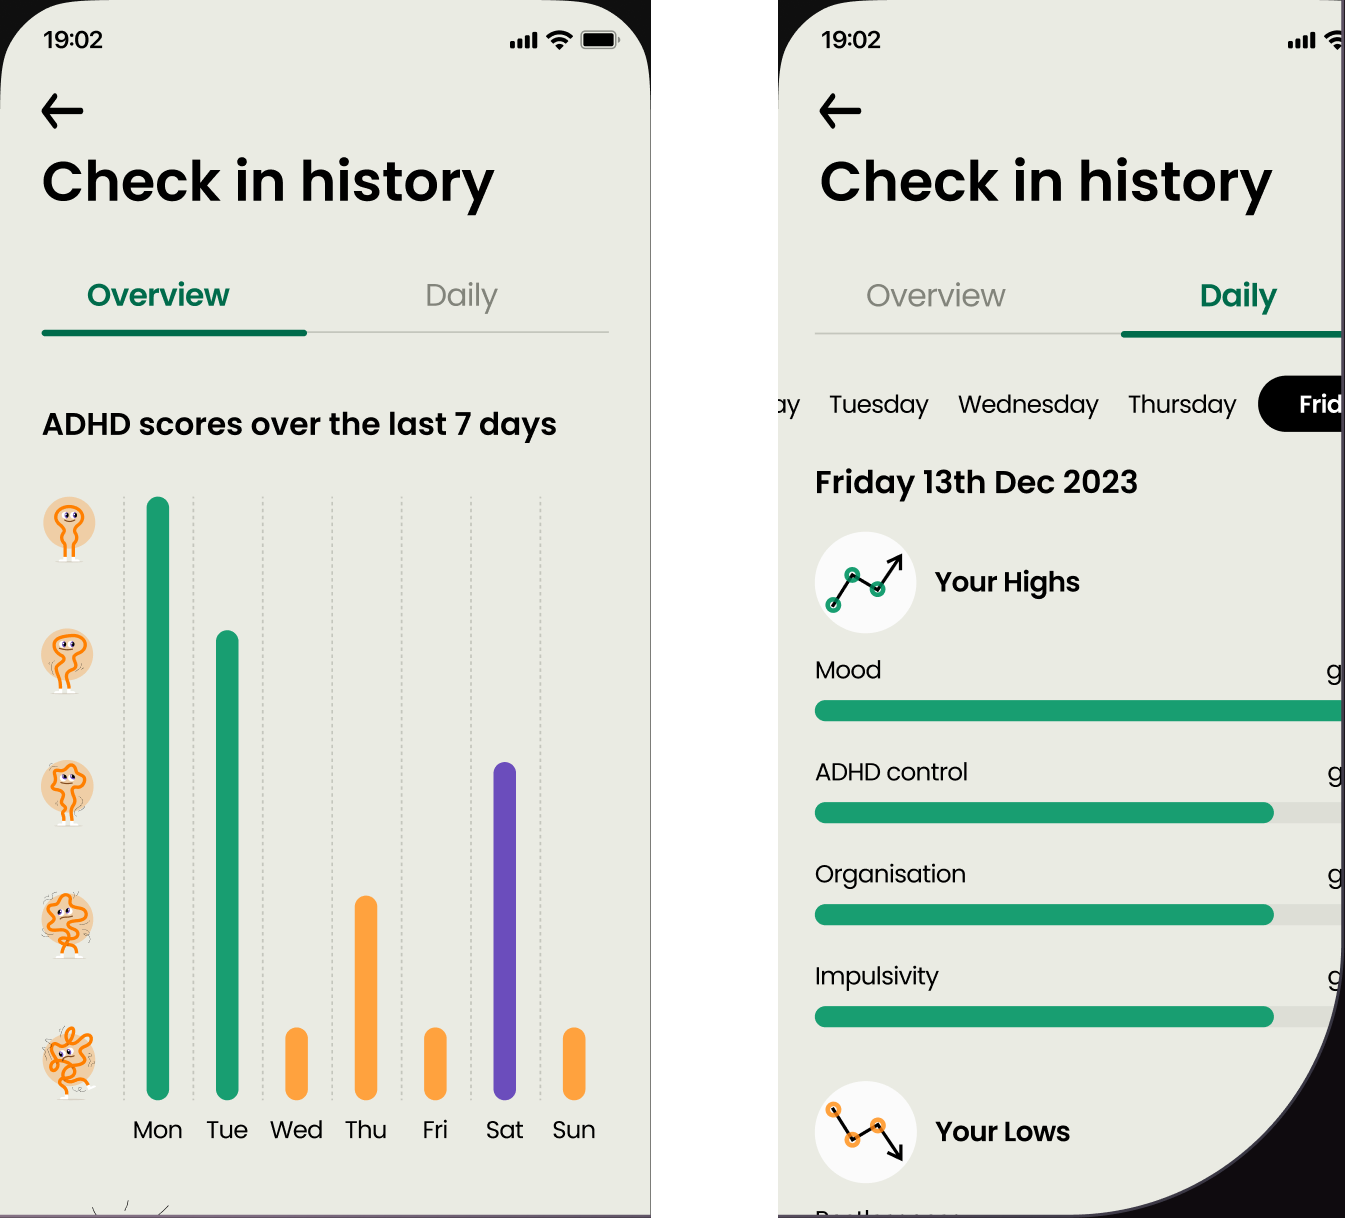
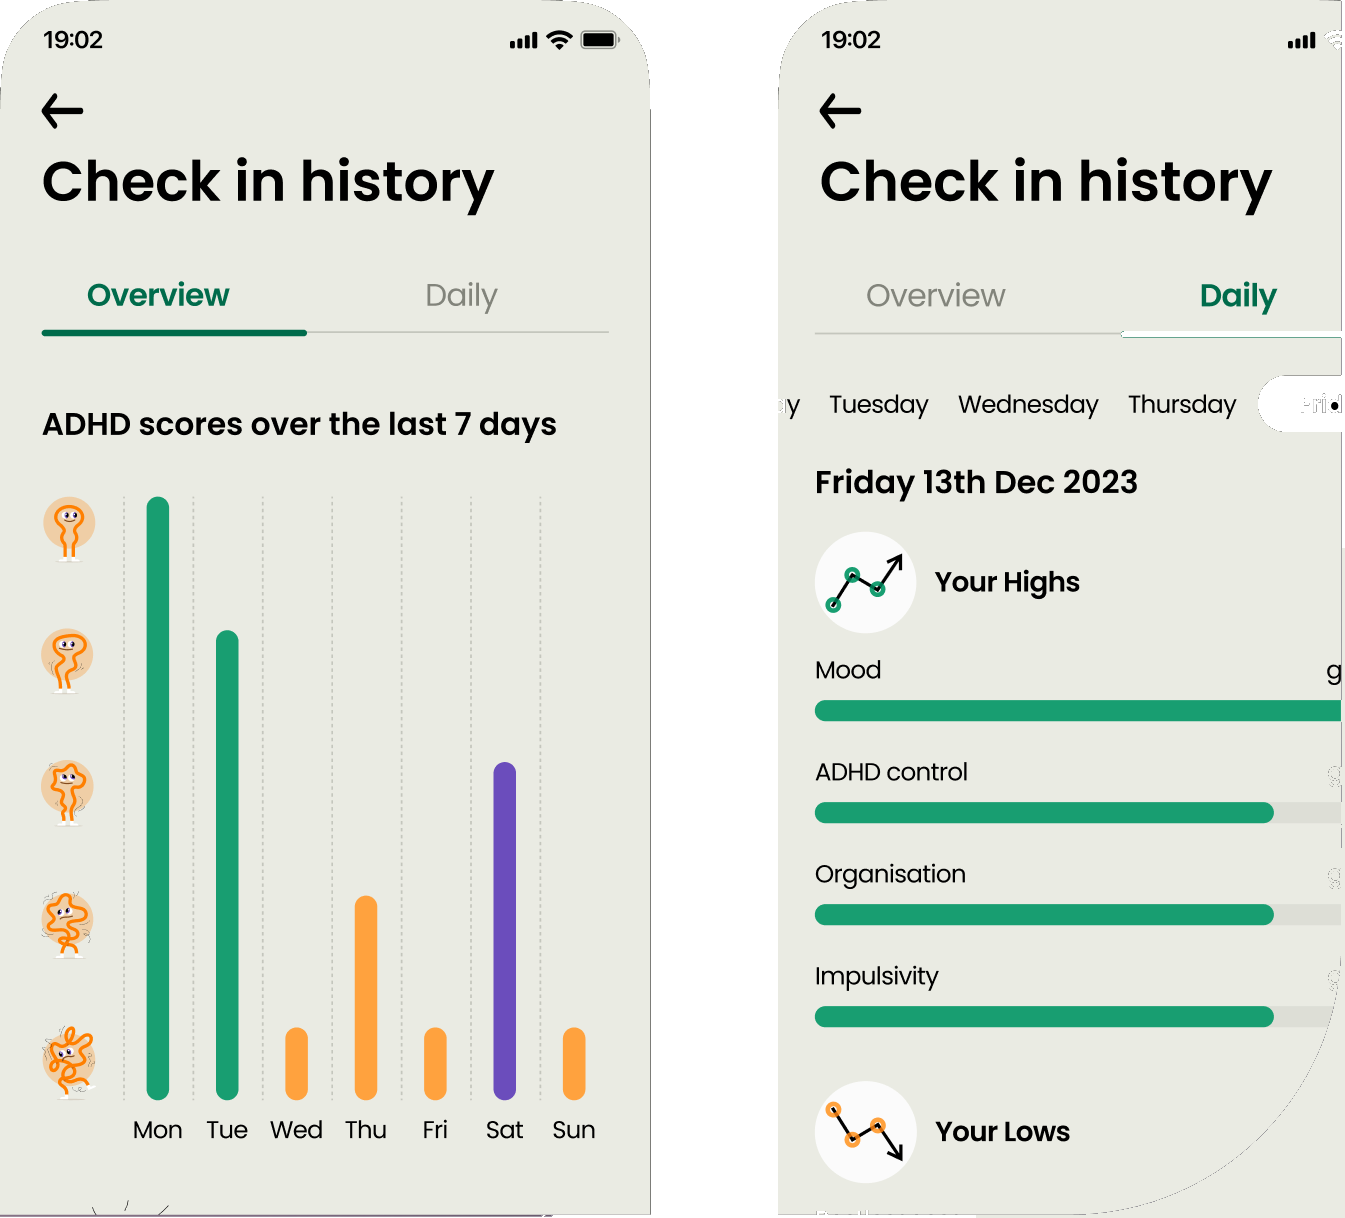
Refine cog_adhd card: clean phone art + positioning + real copy
- Strip opaque black corners from the two phone screens and fill phone-2's
  bottom-right so the card's rounded corner clips it cleanly (no gap)
- ProjectCard: optional imageClassName to override product-visual positioning
  (default unchanged for the E.ON card)
- cog_adhd phones: bottom-flush, right-anchored, h-65% so they sit on the right
  clear of the copy and bleed off the right edge (matches Figma node 65-1214)
- lib/projects.ts: real subtitle copy for cog_adhd
- DESIGN.md / CLAUDE.md: document the per-card positioning + blob palette

diff --git a/components/sections/prototype/ProjectCard.tsx b/components/sections/prototype/ProjectCard.tsx
@@ -10,6 +10,7 @@
 //     project copy on the LEFT and an optional product visual floating on the
 //     RIGHT (split layout). Copy: year (top-left), logo + mono kicker, title,
 //     subtitle, tags (pinned bottom-left).
+import { useRouter } from "next/navigation";
 import { Grain } from "./softBits";
 
 // Gradient-blob colours: a warm core diffusing out to a cool edge.
@@ -30,8 +31,13 @@ export type ProjectCardProps = {
   logo?: { src: string; alt: string };
   /** optional product visual; when present the card uses the split layout */
   image?: { src: string; alt: string };
+  /** override the product-visual positioning classes (default: floats centred off
+      the right edge). e.g. pass a bottom/right-anchored variant for device shots. */
+  imageClassName?: string;
   /** the corner gradient blob colours */
   blob: CardBlob;
+  /** optional case-study route — clicking the OPEN card navigates here */
+  href?: string;
 };
 
 // Expanded bloom — one big blurred circle whose centre sits just OUTSIDE the
@@ -61,14 +67,30 @@ export function ProjectCard({
   tags,
   logo,
   image,
+  imageClassName,
   blob,
+  href,
 }: ProjectCardProps) {
+  const router = useRouter();
+  // Default: artwork floats centred, bleeding slightly off the right edge.
+  const imgClass =
+    imageClassName ??
+    "pointer-events-none absolute right-[-6%] top-1/2 h-[88%] w-auto -translate-y-1/2 object-contain object-left";
+  // Collapsed click → open the card; open click (with a case study) → navigate.
+  const onClick = () => {
+    if (open && href) router.push(href);
+    else onActivate();
+  };
   return (
     <button
       type="button"
       onMouseEnter={onActivate}
       onFocus={onActivate}
-      className="group relative min-h-0 overflow-hidden rounded-3xl text-left outline-none transition-all duration-700 ease-[cubic-bezier(0.16,1,0.3,1)]"
+      onClick={onClick}
+      aria-label={open && href ? `Open ${title} case study` : undefined}
+      className={`group relative min-h-0 overflow-hidden rounded-3xl text-left outline-none transition-all duration-700 ease-[cubic-bezier(0.16,1,0.3,1)] ${
+        open && href ? "cursor-pointer" : ""
+      }`}
       style={{ flexGrow: open ? 6 : 1, flexBasis: 0 }}
     >
       {/* colour blob BEHIND the glass — bloom (open) crossfades with spine
@@ -118,10 +140,11 @@ export function ProjectCard({
       {!open && (
         <div className="absolute inset-0 flex items-center justify-center">
           <span
-            className="whitespace-nowrap font-mono text-xs uppercase tracking-[0.35em] text-fg/55 transition-colors duration-300 group-hover:text-fg/90"
+            className="whitespace-nowrap font-mono text-sm uppercase tracking-[0.3em] text-fg md:text-base"
             style={{ writingMode: "vertical-rl", transform: "rotate(180deg)" }}
           >
             {collapsedLabel}
+            <span className="text-fg/55"> · {year}</span>
           </span>
         </div>
       )}
@@ -177,11 +200,7 @@ export function ProjectCard({
         {image && (
           <div className="relative flex-1">
             {/* eslint-disable-next-line @next/next/no-img-element */}
-            <img
-              src={image.src}
-              alt={image.alt}
-              className="pointer-events-none absolute right-[-6%] top-1/2 h-[88%] w-auto -translate-y-1/2 object-contain object-left"
-            />
+            <img src={image.src} alt={image.alt} className={imgClass} />
           </div>
         )}
       </div>

diff --git a/components/sections/prototype/VariantBentoSoft.tsx b/components/sections/prototype/VariantBentoSoft.tsx
@@ -59,7 +59,7 @@ export function VariantBentoSoft() {
                 key={p.slug}
                 open={open}
                 onActivate={onActivate}
-                collapsedLabel={`${p.company} · ${p.year}`}
+                collapsedLabel={p.company}
                 year={p.year}
                 label="/e.on_next"
                 logo={{ src: "/assets/e_on_next.png", alt: "E.ON Next" }}
@@ -82,7 +82,7 @@ export function VariantBentoSoft() {
                 key={p.slug}
                 open={open}
                 onActivate={onActivate}
-                collapsedLabel={`${p.company} · ${p.year}`}
+                collapsedLabel={p.company}
                 year={p.year}
                 label="/cog_adhd"
                 logo={{ src: "/assets/cog-adhd-logo.png", alt: "cog_adhd" }}
@@ -90,10 +90,12 @@ export function VariantBentoSoft() {
                 subtitle={p.description}
                 tags={p.tags}
                 image={{
-                  src: "/assets/cog-adhd-product.png",
+                  src: "/assets/cog-adhd-product.png?v=3",
                   alt: "cog_adhd check-in history — weekly ADHD scores and daily highs/lows",
                 }}
+                imageClassName="pointer-events-none absolute right-[-10%] bottom-0 h-[65%] w-auto max-w-none object-contain object-left"
                 blob={{ core: "#F2922E", edge: "#189E71" }}
+                href="/project/cog-adhd"
               />
             );
           }
@@ -152,10 +154,11 @@ export function VariantBentoSoft() {
               {!open && (
                 <div className="absolute inset-0 flex items-center justify-center">
                   <span
-                    className="whitespace-nowrap font-mono text-xs uppercase tracking-[0.35em] text-fg/55 transition-colors duration-300 group-hover:text-fg/90"
+                    className="whitespace-nowrap font-mono text-sm uppercase tracking-[0.3em] text-fg md:text-base"
                     style={{ writingMode: "vertical-rl", transform: "rotate(180deg)" }}
                   >
-                    {p.company} · {p.year}
+                    {p.company}
+                    <span className="text-fg/55"> · {p.year}</span>
                   </span>
                 </div>
               )}

diff --git a/lib/projects.ts b/lib/projects.ts
@@ -17,7 +17,7 @@ export type Project = {
 export const projects: Project[] = [
   {
     slug: "nest-agentic-rag",
-    company: "EON Next",
+    company: "E.ON Next",
     title: "Designing agentic RAG to help with cognitive load",
     description:
       "Improved cognitive load by giving users agentic RAG that answers their questions.",
@@ -26,10 +26,10 @@ export const projects: Project[] = [
   },
   {
     slug: "cog-adhd",
-    company: "cog_adhd",
+    company: "cog adhd",
     title: "Gaps and opportunities in ADHD therapy processes",
     description:
-      "improved cognitive load by giving users agentic rag that answers their questions",
+      "drove bookings and engagement through flow optimisation and a check-in history feature",
     tags: ["Research", "UX/UI", "Testing", "Launch"],
     accent: "linear-gradient(120deg, #F2922E 0%, #189E71 100%)",
   },

diff --git a/CLAUDE.md b/CLAUDE.md
@@ -129,6 +129,49 @@ it's a deliberate call.
 
 Newest first. Record *why*, not just *what*.
 
+- **2026-06-24** — **Started the Cog ADHD CASE STUDY page** (the page that opens
+  when you click the `/cog_adhd` showcase card; a *separate* "another cakes" agent
+  owns the card itself — don't touch `VariantBentoSoft`/`ProjectCard`). Caroline:
+  reconstruct her old Framer case study (`carolinejaworsky/cog-clinic-research-and-
+  strategy`) "as close as possible… match the pdf exactly", using a divide-and-
+  conquer team of builders + evaluators (Playwright vs the PDF). Source: the Framer
+  PDF export + 59 exported assets in `~/Documents/Framer website/Cog clinic research
+  assets/`. **DECISIONS (Caroline):** (1) **Route `/project/cog-adhd`** (singular
+  "project", per her pick) → `app/project/cog-adhd/page.tsx`. (2) **LIGHT theme,
+  match the PDF exactly** — the dark portfolio card opens into a light cream case
+  study (each case study keeps its own identity). Scoped via `.cog-root` in
+  `components/project/cog-adhd/theme.css` so the light palette NEVER leaks into the
+  dark site. (3) **Fonts:** product-visual mockups keep their baked-in fonts (they're
+  images); all page copy uses the homepage stack — Iosevka `--font-hero` for titles,
+  Geist Mono for mono labels/pull-quotes, Geist body — "won't 100% align, evaluate
+  later." **Build structure:** page = 15 section components under
+  `components/project/cog-adhd/sections/` (Nav, Hero, MyRole, Interviews, Competitive,
+  Findings, BookingDropoff, JourneyMap, Strategy, Methodology, Challenges, Solution,
+  Results, Takeaways, NextProject), each owned by one builder (no file conflicts);
+  shared read-only primitives in `ui.tsx` (`A()` asset helper, `Container/Kicker/
+  Title/Body/Callout/Statement`) + helper classes in `theme.css`. Assets copied to
+  `public/projects/cog-adhd/` with clean names (`Image(10).png`→`image-10.png`;
+  `_namemap.json` records the map; the big journey map kept its name
+  `cog-clinic-current-journey-map.svg`). Build spec (per-section copy + PDF reference
+  crop + asset hints) is in the session scratchpad `SPEC.md`. PDF rendered to readable
+  bands + a labeled asset catalog via poppler+sharp+playwright (installed poppler).
+  **DONE (v1):** 15 builders built all sections in parallel; 15 evaluators scored
+  each vs the PDF (most 82–95/100), 2 fixers patched the misses — **Competitive**
+  (asset filenames were off-by-one: `image-11.png` is the mood-picker screen, not the
+  Agave logo; logos are `image-12..16` = Agave/inflow/HelloSelf/shimmer/bloom) and
+  **Methodology** (the 9 hand-drawn wireframes are the composite PNGs
+  `image-29/28/30.png`, NOT `image-32..39` which are portraits/illustrations/finished
+  dashboards). tsc + eslint clean, 0 console errors. Page renders end-to-end and
+  closely matches the PDF. Reachable directly at `/project/cog-adhd`. **CARD WIRED
+  (2026-06-24):** added an optional `href` prop to `ProjectCard` — clicking the OPEN
+  card `router.push(href)`s (collapsed click still just opens it, preserving the
+  hover-to-expand UX; `cursor-pointer` + `aria-label` only when open+href). The Cog
+  card (`VariantBentoSoft` i===1) passes `href="/project/cog-adhd"`. Verified via
+  Playwright: click open Cog card → navigates. (E.ON card has no href yet — its case
+  study isn't built.) Verification
+  harness `scripts/_cogshots.mjs` (untracked) screenshots each `[data-cog]` wrapper in
+  page.tsx → scratchpad/cog-shots/. Possible polish later: Hero confetti-band crop,
+  Solution bubble scatter, exact spacing — evaluate in-browser.
 - **2026-06-24** — **Populated showcase card #2 (`/cog_adhd`) via the reusable
   `ProjectCard`** — Caroline: "create another project card… following the component
   we built, but card 2 with different copy/assets" from a Figma frame
@@ -152,6 +195,39 @@ Newest first. Record *why*, not just *what*.
   questions") is *identical* to the E.ON card's — looks like placeholder copy left
   in the design; rendered faithfully for now, swap when she has real copy. The 3
   remaining cells (`project-03/04/05`) still use the older centred placeholder layout.
+  **Fixes same day (Caroline review):** (1) the phone exports had opaque near-black
+  (`#0F0F0F`) filling the rounded-corner triangles + phone-2's bottom-right cutout —
+  stripped via an edge **flood-fill** in Pillow (BFS from the border removing
+  connected dark pixels, leaving interior black TEXT untouched since it's ringed by
+  the cream screen), re-composited (`?v=2`). (2) Product visuals now sit **flush to
+  the card's bottom edge** with the **right phone touching the right edge** — added an
+  optional `imageClassName` prop to `ProjectCard` (default stays E.ON's centred float)
+  and passed `absolute bottom-0 right-0 h-[90%] object-bottom` for cog_adhd; verified
+  in Playwright (img box gapRight/gapBottom = 0). **Round 2 (Caroline):** that
+  bottom/right-anchored treatment made the phones read too big + the left phone
+  crowded the title, and the right phone's bottom-right showed a transparent notch
+  (the former black cutout) instead of being clipped by the card. Fix: kept the
+  ORIGINAL size/horizontal placement and only changed the vertical anchor →
+  `right-[-6%] bottom-0 h-[88%] object-left` (phones bleed off the RIGHT edge, cut
+  by the card, now dropped flush to the bottom). And **filled phone-2's bottom-right
+  cutout with the screen cream** in Pillow (`?v=3`) so the phone reads solid there —
+  the card's `rounded-3xl` corner does the rounding (Caroline: the corner "was
+  rounded because it was cut by the card edges and it should stay like this").
+  Note: MCP Playwright screenshots kept timing out (5s) on the live-WebGL page;
+  captured via a throwaway standalone `@playwright/test` script (real `.hover()` to
+  trip React's `onMouseEnter`, then freeze + element screenshot) — keep that trick
+  for this page. Caroline also replaced the subtitle copy herself in
+  `lib/projects.ts` (real copy now — the earlier "identical to E.ON" flag is closed).
+  **Round 3 (Caroline, with the Figma open):** phones STILL too big + overlapping
+  the title. Root cause: the img height is `%` of the CARD height, but on the wide
+  expanded card (flex-grow 6 ≈ 60% of the row → ~768px wide × 560 tall) an 88%-tall
+  image is ~542px WIDE, which overflows the 50% copy column and spills left over the
+  text. Fix = shrink to `h-[56%]` so the image width (~357px) stays inside the right
+  half → phones sit fully on the right, clear of the copy, ~55% height (matches the
+  Figma `node 65-1214`). Final class: `right-[-10%] bottom-0 h-[65%] object-left`
+  (Caroline bumped 56%→65% — "slightly bigger"; still clears the copy).
+  KEY LESSON for these device cards: pick a height % low enough that
+  `height%·cardH·aspect ≤ 50%·cardW`, else the artwork overflows the copy column.
 - **2026-06-16** — **Extracted the E.ON Next showcase card into a reusable
   `ProjectCard` component** (`components/sections/prototype/ProjectCard.tsx`) —
   Caroline: "the /e.on_next card is looking good, make it a component we can reuse

diff --git a/DESIGN.md b/DESIGN.md
@@ -277,7 +277,10 @@ when expanded, one split layout, so every real project reads as one authored pie
   line. The subtitle is the one place mono carries a sentence — kept short.
 - **Product visual:** transparent artwork (e.g. a frosted UI panel) floating over
   the blob, bleeding slightly off the right edge — no frame, border, or shadow, so
-  the gradient reads straight through it.
+  the gradient reads straight through it. Positioning is overridable per card via
+  `imageClassName` (default: centred float off the right edge; the cog_adhd card uses
+  a bottom/right-anchored variant so the two phone shots sit flush to the bottom edge
+  with the right phone touching the card's right edge).
 - The card's shine is **static** here (rim glint + diagonal sheen) — the scroll-
   driven specular motion lives on the toolkit dock and the About portrait, not the
   cards.